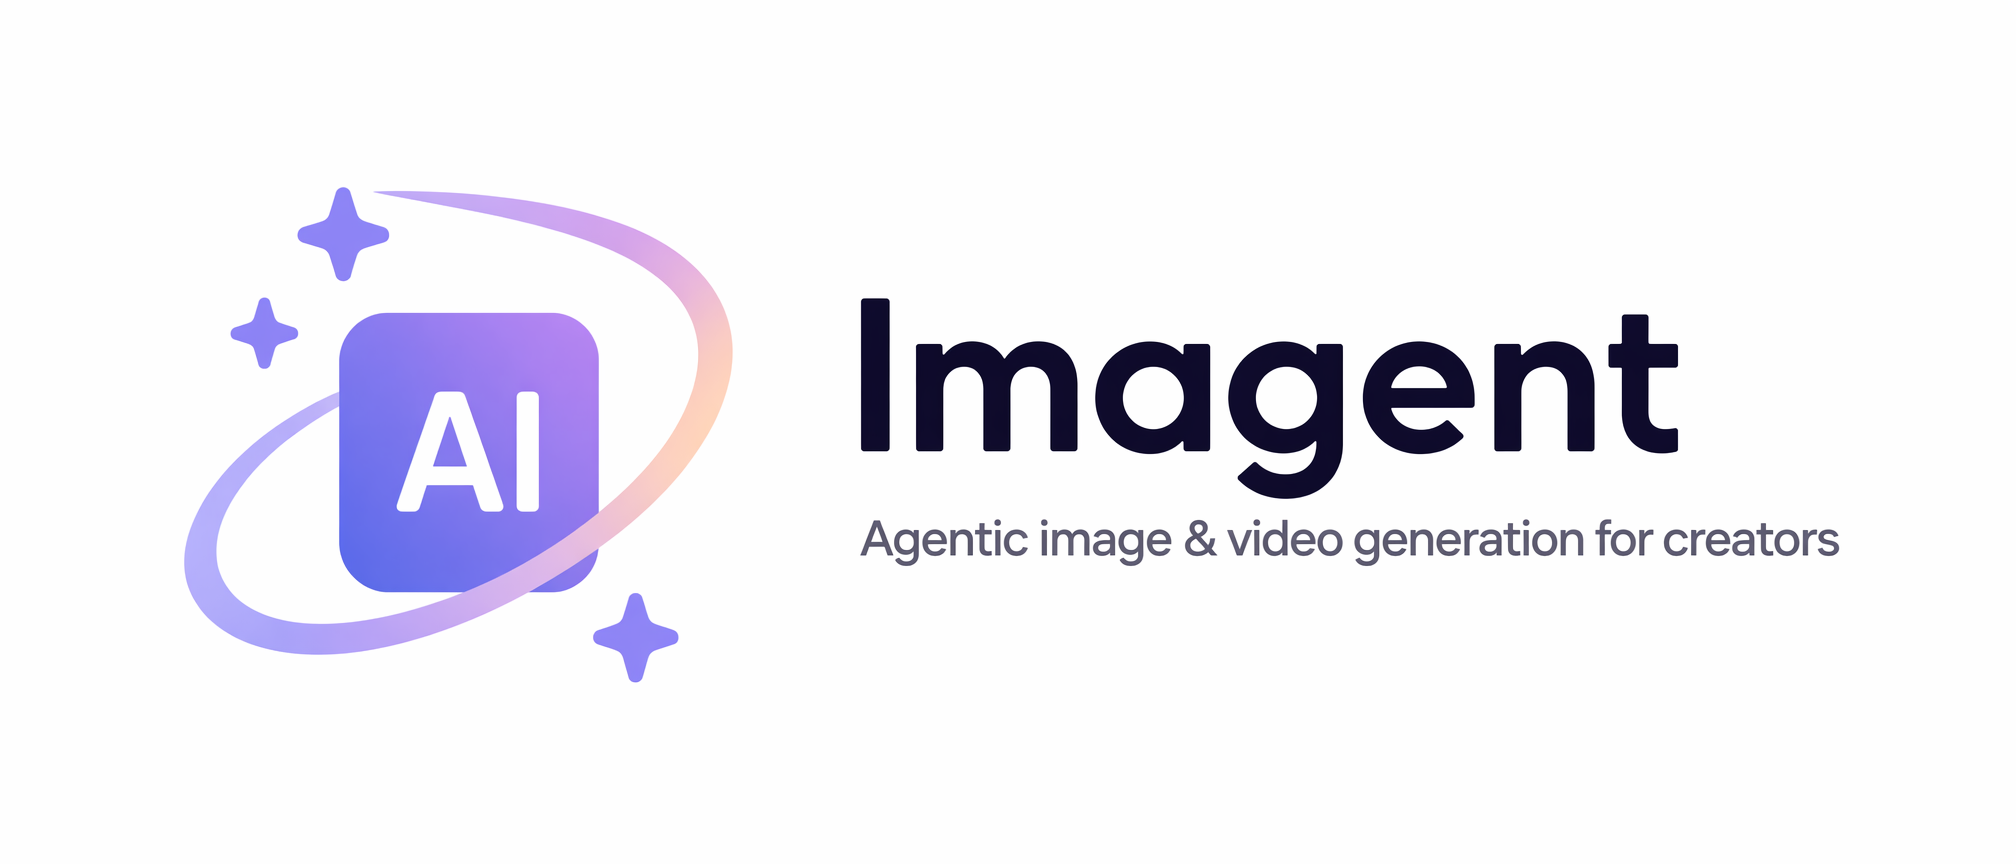
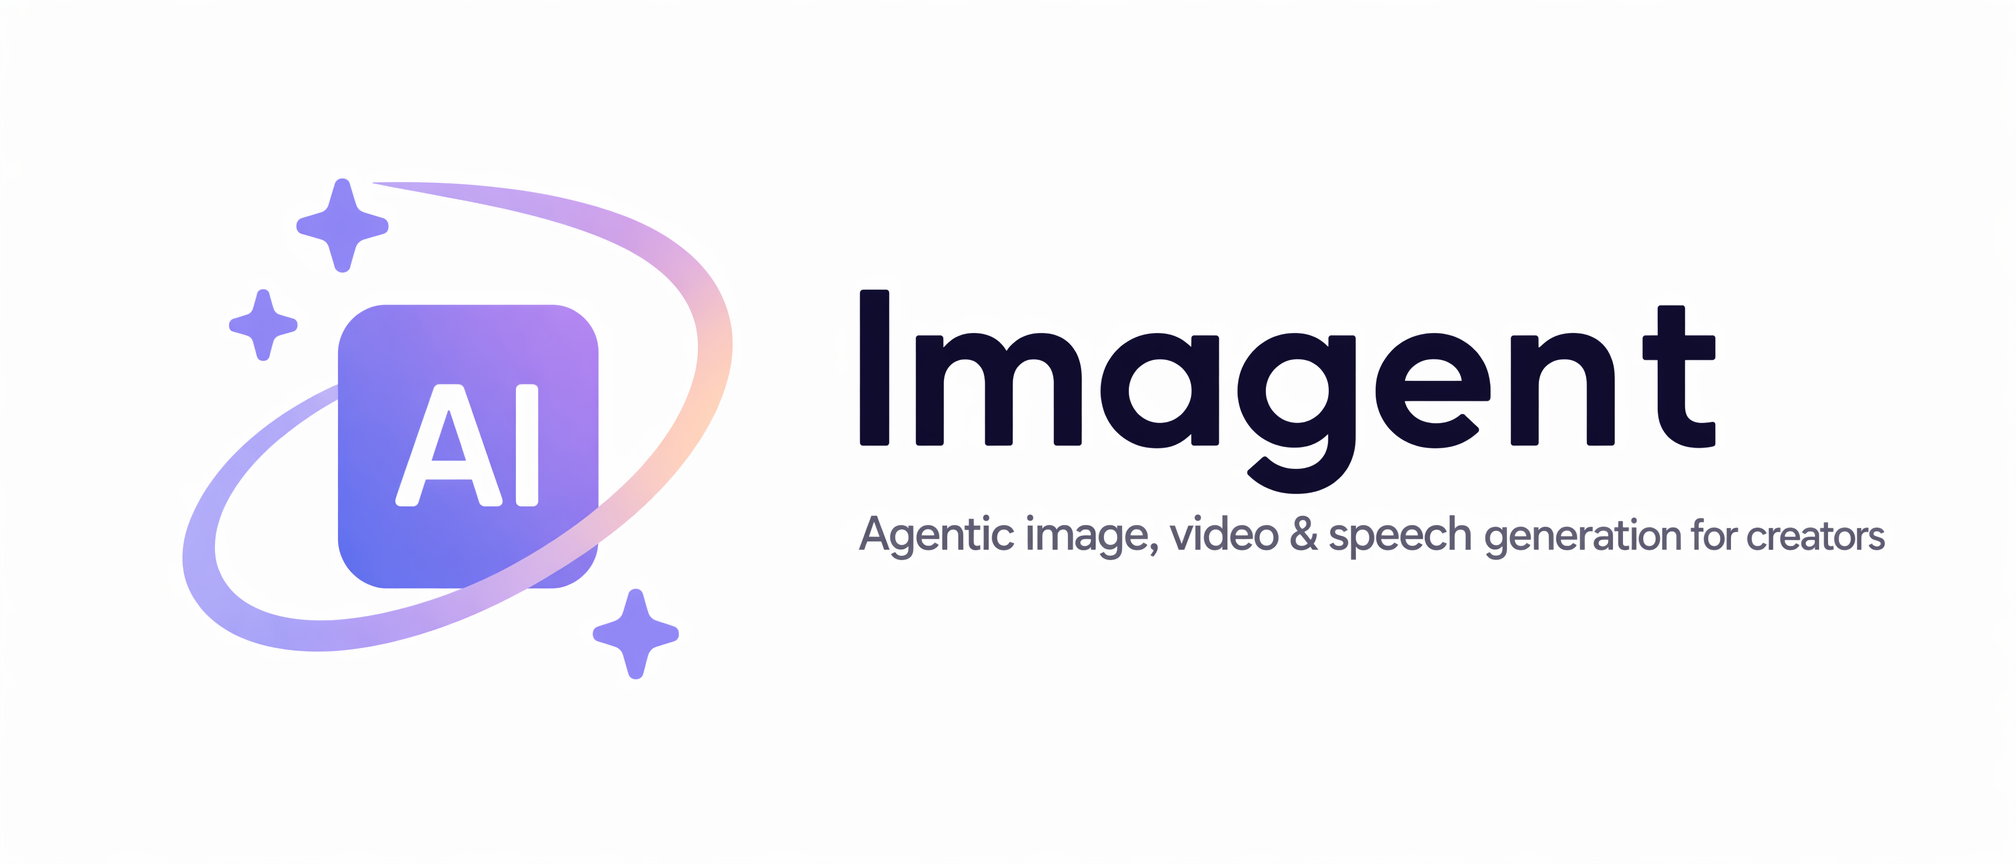
docs: enhance README and Chinese documentation for clarity and detail; update website meta description and home page content

diff --git a/apps/site/src/pages/home.tsx b/apps/site/src/pages/home.tsx
@@ -17,22 +17,22 @@ gsap.registerPlugin(ScrollTrigger, useGSAP);
 
 const workflowItems = [
   {
-    icon: Database,
-    title: "One local workspace",
-    copy: "State, configuration, assets, thumbnails, and generated outputs live under the shared IMAGENT workspace.",
-  },
-  {
-    icon: SquaresFour,
-    title: "Reusable creative assets",
-    copy: "Characters, objects, backgrounds, styles, and references can be named once and reused in later jobs.",
+    icon: Command,
+    title: "Generation as an agent capability",
+    copy: "The bundled skill lets any compatible agent call the IMAGENT CLI to generate images, video, and speech as a native workflow step — no per-tool integration, no one-off glue code.",
   },
   {
     icon: BracketsCurly,
-    title: "Provider choice stays explicit",
-    copy: "OpenAI, Azure, Google, Flux/BFL, BytePlus, 火山引擎, and xAI provider IDs can be configured side by side.",
+    title: "One interface, every provider and model",
+    copy: "OpenAI, Azure, Google, Flux/BFL, BytePlus, 火山引擎, xAI, MiniMax, and ElevenLabs sit behind a single interface. Swap providers or models without rewriting prompts, parameters, or calls.",
   },
   {
-    icon: Command,
+    icon: Database,
+    title: "Assets that outlive the prompt",
+    copy: "Every image, video, and clip — plus reusable characters, styles, and references — is captured in a managed local library to curate, search, and reuse instead of regenerate.",
+  },
+  {
+    icon: SquaresFour,
     title: "Desktop and terminal together",
     copy: "Run repeatable CLI jobs, review them in the desktop gallery, and keep the same history available to both.",
   },
@@ -40,16 +40,16 @@ const workflowItems = [
 
 const workflowPreviewItems = [
   {
-    label: "Collect context",
-    detail: "Name characters, objects, backgrounds, styles, and references once so later generations can reuse them.",
+    label: "Hand generation to the agent",
+    detail: "Let any compatible agent call the IMAGENT CLI to produce images, video, and speech as a native step in its workflow.",
   },
   {
-    label: "Generate anywhere",
-    detail: "Use the desktop studio for visual work or the CLI when an agent, script, or repeatable job needs control.",
+    label: "Unify every provider",
+    detail: "Reach OpenAI, Azure, Google, Flux/BFL, BytePlus, 火山引擎, xAI, MiniMax, and ElevenLabs through one consistent interface.",
   },
   {
-    label: "Keep the lineage",
-    detail: "Generated outputs, favorites, boards, config, and provider routing stay available in the same local workspace.",
+    label: "Keep every asset",
+    detail: "Generated outputs, favorites, boards, and reusable assets stay in the same local library, ready to reuse across projects.",
   },
 ];
 
@@ -133,11 +133,12 @@ export function HomePage() {
     <div ref={root}>
       <section className="hero section-gap" data-reveal>
         <div className="hero-copyblock">
-          <p className="eyebrow">Imagine agent, kept local</p>
-          <h1>The local agent that turns imagination into work.</h1>
+          <p className="eyebrow">Imagine agent</p>
+          <h1>Give your agents the power to create.</h1>
           <p className="hero-copy">
-            IMAGENT gives image, video, and speech creation a local operating layer: a visual studio
-            for human taste, a CLI for agentic work, and one shared memory for every result.
+            IMAGENT lets AI agents generate images, video, and speech as a native step in their
+            workflow — behind one interface that hides every provider and model difference, with
+            every result kept in a local library for reuse instead of thrown away.
           </p>
           <div className="hero-actions">
             <SiteLink className="btn btn-solid" to="/docs/quick-start">
@@ -153,7 +154,7 @@ export function HomePage() {
 
       <section className="setup-strip section-gap" data-reveal>
         <div className="section-head">
-          <h2>From idea to reusable context.</h2>
+          <h2>From prompt to reusable asset.</h2>
         </div>
         <div className="setup-steps">
           {workflowPreviewItems.map((step, index) => (

diff --git a/apps/site/index.html b/apps/site/index.html
@@ -5,7 +5,7 @@
     <meta name="viewport" content="width=device-width, initial-scale=1.0" />
     <meta
       name="description"
-      content="IMAGENT official website: local-first image, video, and audio generation with desktop and CLI workflows."
+      content="IMAGENT gives AI agents the ability to generate images, video, and speech behind one interface across every provider and model, with every result kept in a local library for reuse."
     />
     <title>IMAGENT</title>
   </head>

diff --git a/apps/site/src/components/shell.tsx b/apps/site/src/components/shell.tsx
@@ -76,7 +76,7 @@ export function Shell({
       <footer className="footer">
         <div>
           <strong>IMAGENT</strong>
-          <p>Local image, video, and speech generation for human curation and agent automation.</p>
+          <p>Image, video, and speech generation for agents — one interface across every provider, with every asset kept for reuse.</p>
         </div>
         <nav aria-label="Footer">
           <SiteLink to="/">Home</SiteLink>

diff --git a/README.md b/README.md
@@ -4,9 +4,9 @@
 
 <p align="center">English · <a href="./README.zh-CN.md">简体中文</a></p>
 
-**Imagent** means **Imagine agent**: a local-first image, video, and speech generation workspace for individual creators, automation-heavy workflows, and AI agents.
+**Imagent** means **Imagine agent**: it gives AI agents the ability to generate images, video, and speech as a first-class step in their workflows, behind a single interface that hides the differences between providers and models — and it keeps every generated asset organized for reuse instead of throwing it away.
 
-It ships as a desktop application, a command-line tool, and an installable agent skill. All surfaces share the same local workspace, provider configuration, asset library, generated outputs, and result history.
+It ships as a command-line tool and a desktop application. All surfaces share the same local workspace, unified provider interface, asset library, generated outputs, and result history.
 
 [Documentation](https://unliftedq.github.io/imagent/docs) · [Desktop app](./apps/desktop/README.md) · [CLI](./apps/cli/README.md) · [Architecture](./architecture.md)
 
@@ -18,13 +18,13 @@ It ships as a desktop application, a command-line tool, and an installable agent
 
 ## Why imagent?
 
-| Capability | What it gives you |
+Most agents can reason and write code, but they can't *create* images, video, or audio — and the ad-hoc scripts people wire up for it are throwaway, provider-locked, and forget every asset the moment they finish. Imagent solves three problems at once:
+
+| | What it gives you |
 | --- | --- |
-| **Local-first workspace** | Data lives under `~/.imagent/`, including SQLite state, configuration, assets, and generated outputs. No remote account or backend is required. |
-| **One library across interfaces** | The desktop app, CLI, and agent integrations work against the same gallery, boards, favorites, and reusable assets. |
-| **Multi-provider generation** | OpenAI, Azure OpenAI, Google Imagen/Gemini, Flux/BFL, BytePlus / 火山引擎 Seedream/Seedance, xAI Grok, MiniMax TTS, and ElevenLabs TTS can be configured side by side. |
-| **Asset-driven creation** | Reusable characters, objects, backgrounds, styles, and references help keep ongoing projects visually consistent. |
-| **Agent-ready automation** | The bundled skill lets compatible agents call the `imagent` CLI instead of using a one-off image, video, or speech tool. |
+| **Generation as an agent capability** | The bundled skill lets any compatible agent call the `imagent` CLI to generate images, video, and speech as a native step in its workflow — no bespoke per-tool integration, no one-off glue code. |
+| **One interface, every provider and model** | OpenAI, Azure OpenAI, Google Imagen/Gemini, Flux/BFL, BytePlus / 火山引擎 Seedream/Seedance, xAI Grok, MiniMax TTS, and ElevenLabs TTS sit behind a single, consistent interface. Users and agents swap providers or models without rewriting prompts, parameters, or calling conventions. |
+| **Assets that outlive the prompt** | Every generated image, video, and clip — plus reusable characters, objects, backgrounds, styles, and references — is captured in a managed local library. Curate, search, and reuse outputs across projects instead of regenerating them from scratch. |
 
 ## Quick start
 
@@ -70,11 +70,11 @@ Use the same install flow for Claude Code, Codex, OpenClaw, Hermes, or other com
 
 ## Typical workflows
 
-- Build a local AI-assisted visual creation workflow for individual use.
-- Compare image, video, and speech outputs across multiple generation providers.
-- Maintain reusable characters, styles, and reference-image assets over time.
-- Combine terminal automation with desktop-based review and curation.
-- Let coding agents generate creative assets through the same audited CLI workflow.
+- Give a coding or automation agent the ability to produce visual and audio assets mid-task, through one audited CLI.
+- Switch between providers and models for the same prompt without changing how you call them.
+- Build up a reusable library of characters, styles, and reference assets that compounds across projects.
+- Curate and revisit everything an agent generated, instead of losing it once the script exits.
+- Combine terminal automation with desktop-based review and curation over a shared local workspace.
 
 ## Project structure
 

diff --git a/README.zh-CN.md b/README.zh-CN.md
@@ -4,9 +4,9 @@
 
 <p align="center"><a href="./README.md">English</a> · 简体中文</p>
 
-**Imagent** 取自 **Imagine agent**：它是一个本地优先的图像、视频与语音生成工作台，面向独立创作者、高度自动化的创作流程，以及需要稳定调用生成能力的 AI Agent。
+**Imagent** 取自 **Imagine agent**：它让 AI Agent 在工作流中具备生成图像、视频与语音的能力，并用一套统一的接口抹平不同 Provider 和模型之间的差异——同时把每一份生成的资产有序地管理起来供后续复用，而不是用完即丢。
 
-它同时提供桌面应用、命令行工具和可安装的 Agent Skill。不同入口共享同一个本地工作区：Provider 配置、素材库、生成结果、项目资产与历史记录都保存在一起，方便在桌面整理、在终端自动化，或交给 Agent 调用。
+它同时提供命令行工具和桌面应用。不同入口共享同一个本地工作区：统一的 Provider 接口、素材库、生成结果、项目资产与历史记录都保存在一起，方便在桌面整理、在终端自动化，或交给 Agent 调用。
 
 [文档](https://unliftedq.github.io/imagent/docs) · [桌面应用](./apps/desktop/README.md) · [CLI](./apps/cli/README.md) · [架构](./architecture.md)
 
@@ -18,13 +18,13 @@
 
 ## 为什么选择 imagent？
 
-| 能力 | 价值 |
+大多数 Agent 能推理、能写代码，却无法真正“创作”图像、视频或音频；而为此临时拼接的脚本往往用完即丢、绑定单一 Provider，且运行结束后就遗忘了所有产出。imagent 一次解决三个问题：
+
+| | 价值 |
 | --- | --- |
-| **本地优先的工作区** | SQLite 状态、配置、素材和生成结果默认保存在 `~/.imagent/`，不依赖远程账号或后端服务。 |
-| **多个入口，共用一个素材库** | 桌面应用、CLI 和 Agent 集成使用同一套图库、看板、收藏与可复用素材。 |
-| **多 Provider 生成** | 可同时配置 OpenAI、Azure OpenAI、Google Imagen/Gemini、Flux/BFL、BytePlus / 火山引擎 Seedream/Seedance、xAI Grok、MiniMax TTS 和 ElevenLabs TTS。 |
-| **以素材驱动创作** | 角色、物体、背景、风格和参考图可以长期复用，帮助系列项目保持视觉一致性。 |
-| **为 Agent 自动化准备** | 内置 Skill 让兼容的 Agent 直接调用 `imagent` CLI，而不是临时接入零散的图像、视频或语音工具。 |
+| **多媒体生成作为 Agent 的原生能力** | 内置 Skill 让任何兼容的 Agent 直接调用 `imagent` CLI，把生成图像、视频和语音作为工作流中的原生一步——无需为每个工具单独接入，也无需一次性的胶水代码。 |
+| **一套接口，贯通所有 Provider 与模型** | OpenAI、Azure OpenAI、Google Imagen/Gemini、Flux/BFL、BytePlus / 火山引擎 Seedream/Seedance、xAI Grok、MiniMax TTS 和 ElevenLabs TTS 都隐藏在同一套一致的接口之后。用户和 Agent 切换 Provider 或模型时，无需重写提示词、参数或调用方式。 |
+| **资产不随提示词消失** | 每一张生成的图像、视频和片段——以及可复用的角色、物体、背景、风格和参考图——都被纳入受管理的本地素材库。可以跨项目整理、检索和复用产出，而不是从头重新生成。 |
 
 ## 快速开始
 
@@ -70,11 +70,11 @@ Claude Code、Codex、OpenClaw、Hermes 或其他兼容 Agent 都可以使用同
 
 ## 典型工作流
 
-- 为个人创作搭建本地 AI 视觉生成流程。
-- 对比不同图像、视频与语音生成 Provider 的输出效果。
-- 长期维护可复用的角色、风格和参考图素材。
-- 用终端自动化批量生成，再通过桌面应用审阅、整理和收藏结果。
-- 让编程 Agent 通过同一套可审计的 CLI 流程生成创意资产。
+- 让编程或自动化 Agent 在任务过程中通过同一套可审计的 CLI 产出视觉与音频资产。
+- 对同一个提示词在不同 Provider 和模型间切换，而无需改变调用方式。
+- 逐步沉淀出可复用的角色、风格和参考素材库，在多个项目间持续复利。
+- 随时整理和回顾 Agent 生成的一切，而不是在脚本退出后就丢失。
+- 在共享的本地工作区上，把终端自动化与桌面端的审阅、整理结合起来。
 
 ## 项目结构
 
